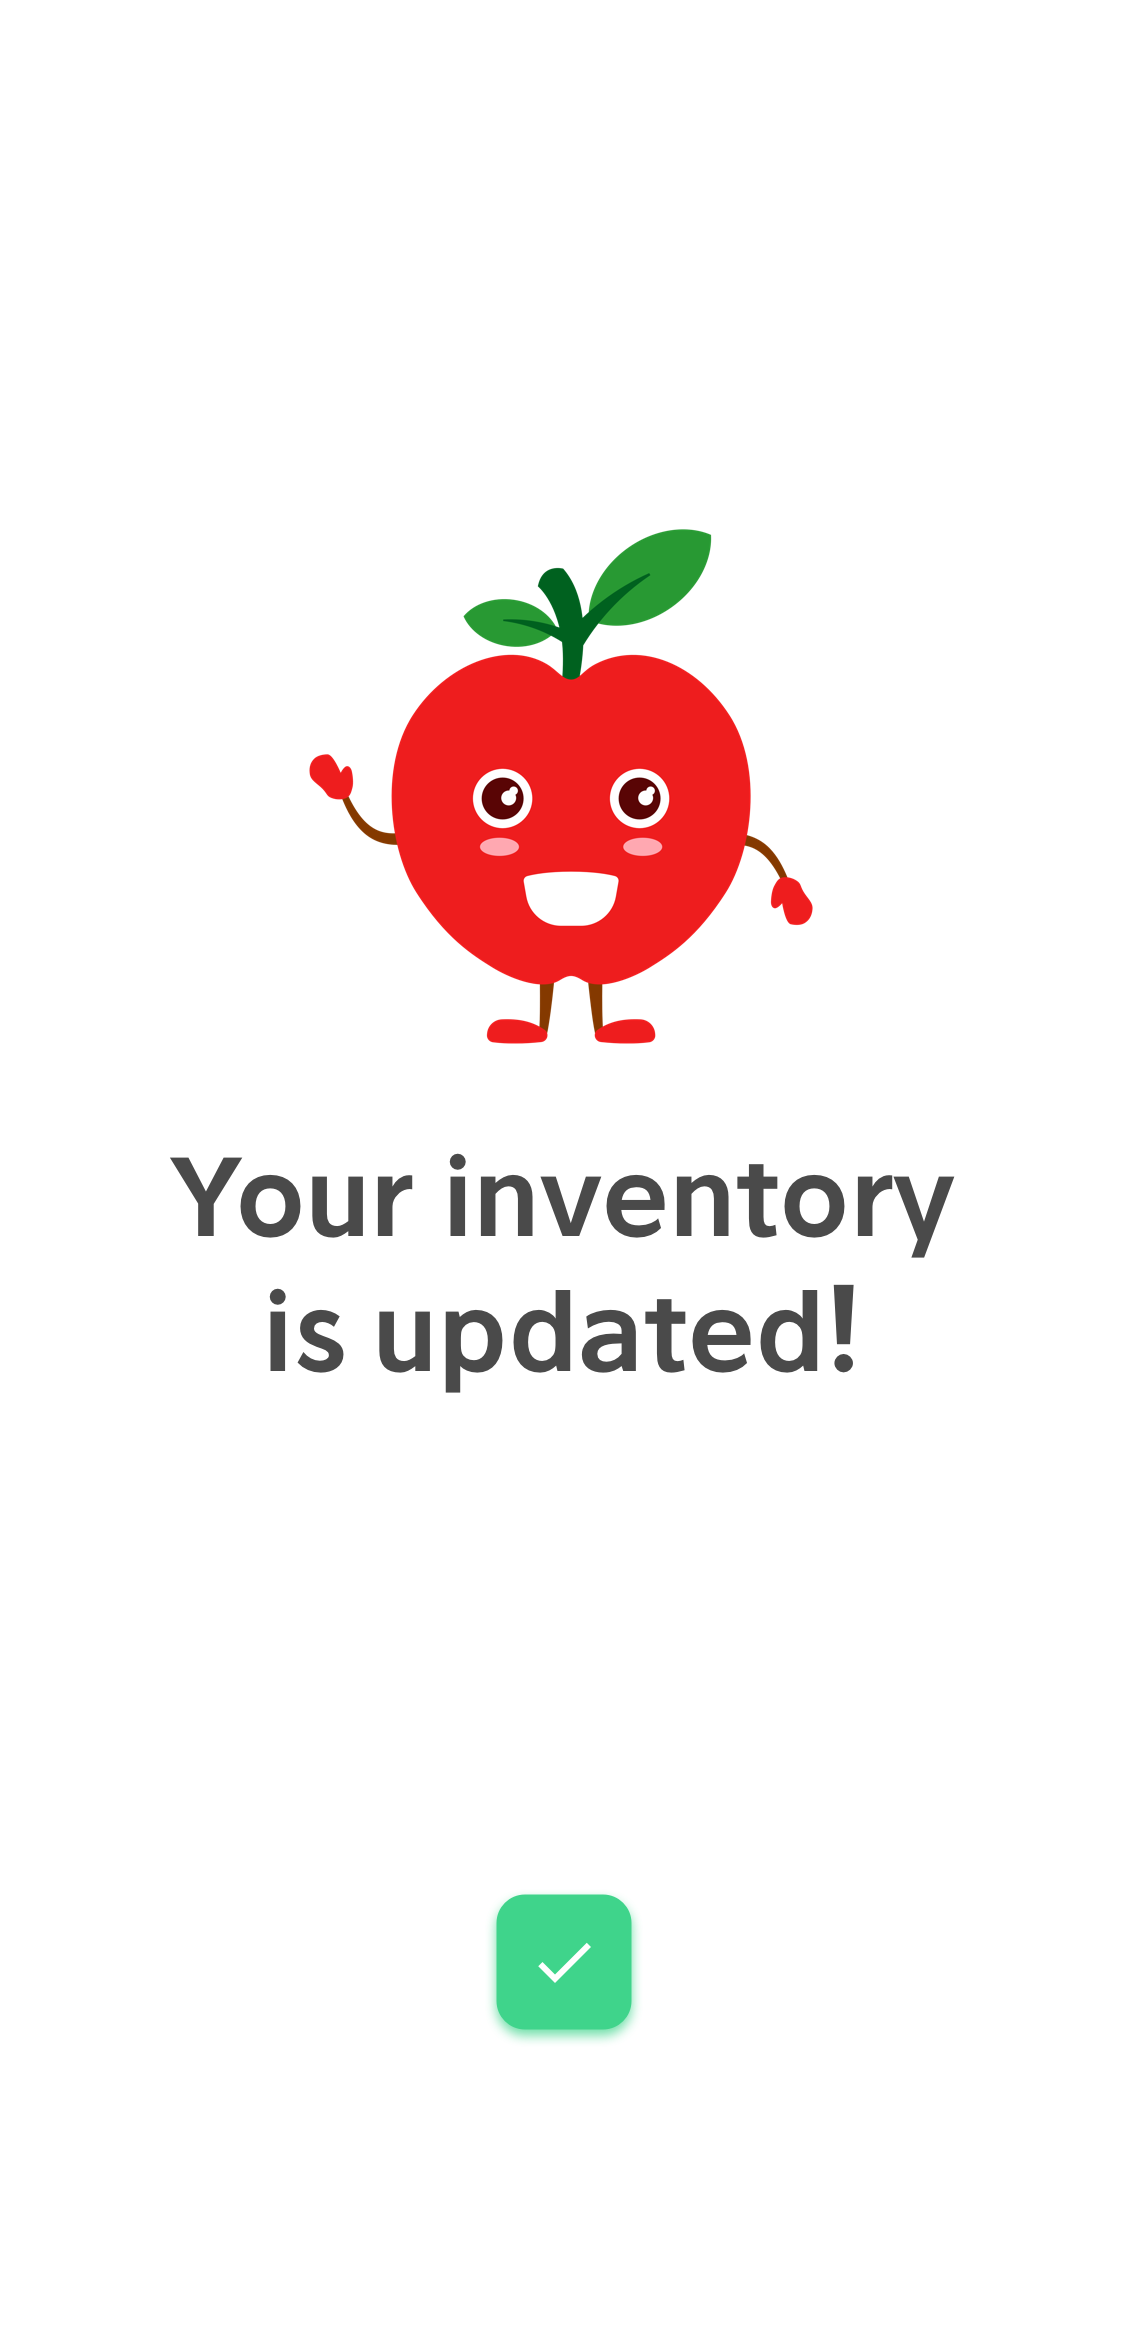
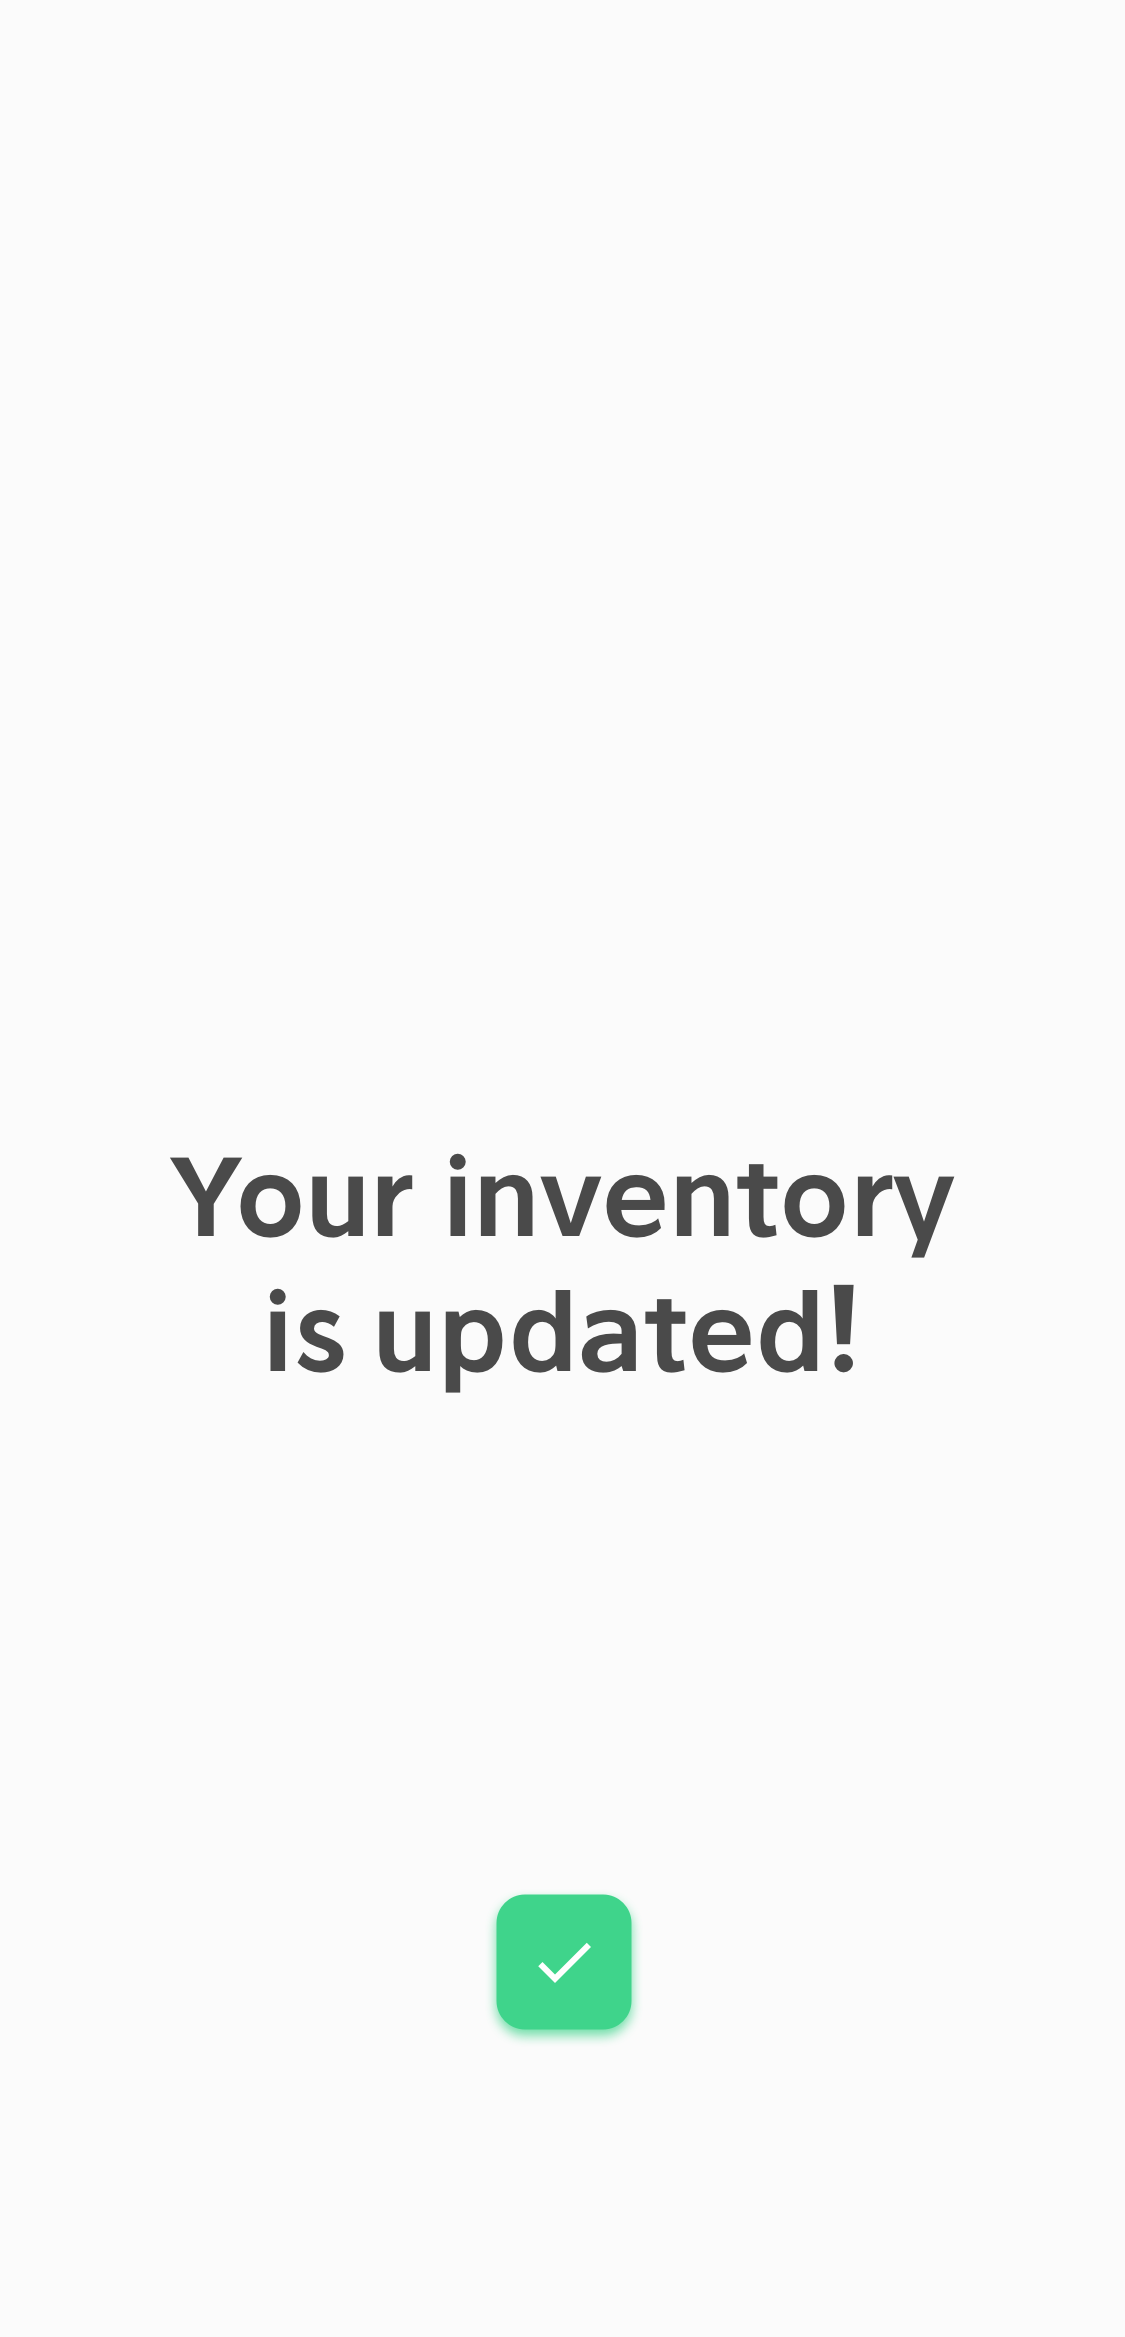
gifjes

Changed region(s): [[0.3111, 0.2187, 0.6844, 0.4685], [0.6844, 0.3748, 0.7156, 0.4061], [0.28, 0.3124, 0.3111, 0.3436]]

diff --git a/src/pages/SmoothiesSmoothieComplete/index.js b/src/pages/SmoothiesSmoothieComplete/index.js
@@ -3,7 +3,7 @@ import PageBackground from '../../components/PageBackground';
 import StyledButton from '../../components/StyledButton';
 import screen from'../../assets/screen.smoothies.smoothie-complete.png';
 import { withNavigation } from 'react-navigation';
-import {StyleSheet} from "react-native";
+import {StyleSheet, Image, View} from "react-native";
 
 const primaryButtonStyles = StyleSheet.create({
   position: {
@@ -14,14 +14,35 @@ const primaryButtonStyles = StyleSheet.create({
   size: {
     width: 50,
     height: 50,
-    backgroundColor: 'rgba(52, 52, 52, 0.8)',
+    // backgroundColor: 'rgba(52, 52, 52, 0.8)',
   }
 });
+
+
+const styles = StyleSheet.create({
+  bigGifStyle: {
+    width: 275 * 1.3,    
+    height: 154 * 1.3,    
+  },
+  gifContainer: {
+    justifyContent: "center",
+    alignItems: "center",
+    alignContent: "center",
+    position: 'absolute',
+    width: "100%",
+    top: 120,
+  }
+});
+
 
 
 const SmoothiesSmoothieComplete = ({ navigation }) => {
   return (
     <PageBackground source={screen}>
+      <View style={styles.gifContainer}>
+        <Image source={require('../../assets/images/broc.gif')} resizeMode="cover" style={styles.bigGifStyle} />
+      </View>
+
       <StyledButton
         style={[primaryButtonStyles.position, primaryButtonStyles.size]}
         onPress={() => navigation.navigate('Smoothies')}

diff --git a/src/pages/InventoryAddIngredientsAdded/index.js b/src/pages/InventoryAddIngredientsAdded/index.js
@@ -3,7 +3,7 @@ import PageBackground from '../../components/PageBackground';
 import StyledButton from '../../components/StyledButton';
 import screen from'../../assets/screen.inventory.add-ingredients.added.png';
 import { withNavigation } from 'react-navigation';
-import {StyleSheet} from "react-native";
+import {StyleSheet, Image, View} from "react-native";
 
 const primaryButtonStyles = StyleSheet.create({
   position: {
@@ -18,11 +18,29 @@ const primaryButtonStyles = StyleSheet.create({
   }
 });
 
+const styles = StyleSheet.create({
+  bigGifStyle: {
+    width: 275 * 1.3,    
+    height: 154 * 1.3,    
+  },
+  gifContainer: {
+    justifyContent: "center",
+    alignItems: "center",
+    alignContent: "center",
+    position: 'absolute',
+    width: "100%",
+    top: 120,
+  }
+});
 
 const InventoryAddIngredientsAdded = ({ navigation }) => {
 
   return (
     <PageBackground source={screen}>
+      <View style={styles.gifContainer}>
+        <Image source={require('../../assets/images/apple.gif')} resizeMode="cover" style={styles.bigGifStyle} />
+      </View>
+
       <StyledButton
         style={[primaryButtonStyles.position, primaryButtonStyles.size]}
         onPress={() => navigation.replace('Inventory')}
